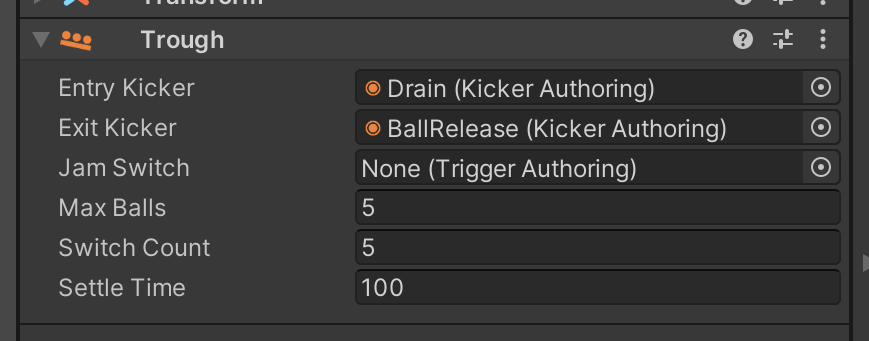
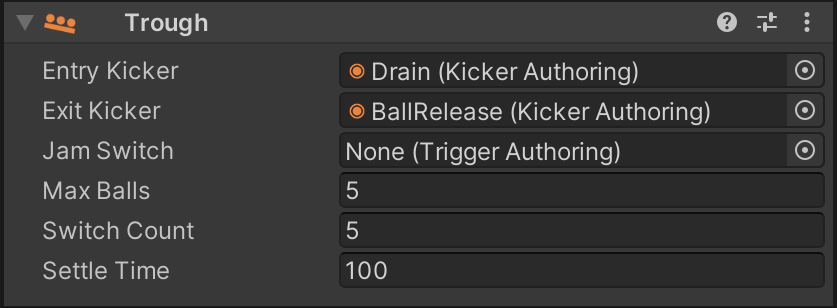
trough: Update documentation.

Changed region(s): [[0.0, 0.0, 1.0, 1.0], [0.4038, 0.2045, 0.8698, 0.4383], [0.4038, 0.789, 0.963, 0.9058]]

diff --git a/VisualPinball.Unity/Documentation~/creators-guide/manual/mechanisms/troughs.md b/VisualPinball.Unity/Documentation~/creators-guide/manual/mechanisms/troughs.md
@@ -10,6 +10,8 @@ When importing a `.vpx` file that doesn't have a trough (chances are high, becau
 
 ## Linking to the Playfield
 
+<img src="trough-inspector.png" width="418" class="img-responsive pull-right" style="margin-left: 15px">
+
 In order to interact with the game, you'll need to setup your entry kicker (the one that drains the ball), and the exit kicker (the one that releases a new ball). This terminology seems weird, because the ball *exits* the playfield when draining, but from the the trough's perspective, that's where the ball *enters*.
 
 You can setup the kickers by selecting the trough in the hierarchy panel and linking them to the desired kickers in the inspector panel.
@@ -18,8 +20,12 @@ You can setup the kickers by selecting the trough in the hierarchy panel and lin
 
 The number of switches of the trough depends on the *Switch Count* property in the inspector panel. For recreations, you can quickly determine the number of trough switches by looking at switch matrix in the operation manual.
 
-Open the [switch manager](../../editor/switch-manager.md) and add the trough switches if they're not already added. As *Destination* select "Device". Under *Element*, select the through you've created and which switch of the trough to connect. For a three-ball trough, it would look something like that:
+Open the [switch manager](../../editor/switch-manager.md) and add the trough switches if they're not already added. As *Destination* select "Device". Under *Element*, select the through you've created and which switch of the trough to connect. For a five-ball trough, it would look something like that:
+
+![Switch Manager](trough-switches.png)
 
 ## Coil Setup
 
 VPE's trough currently only supports one coil, which is the eject coil that pushes a new ball into the plunger lane. Open the [coil manager](../../editor/coil-manager.md), find or add the eject coil and link it to the trough's eject like you did with the switches before:
+
+![Coil Manager](trough-coils.png)
